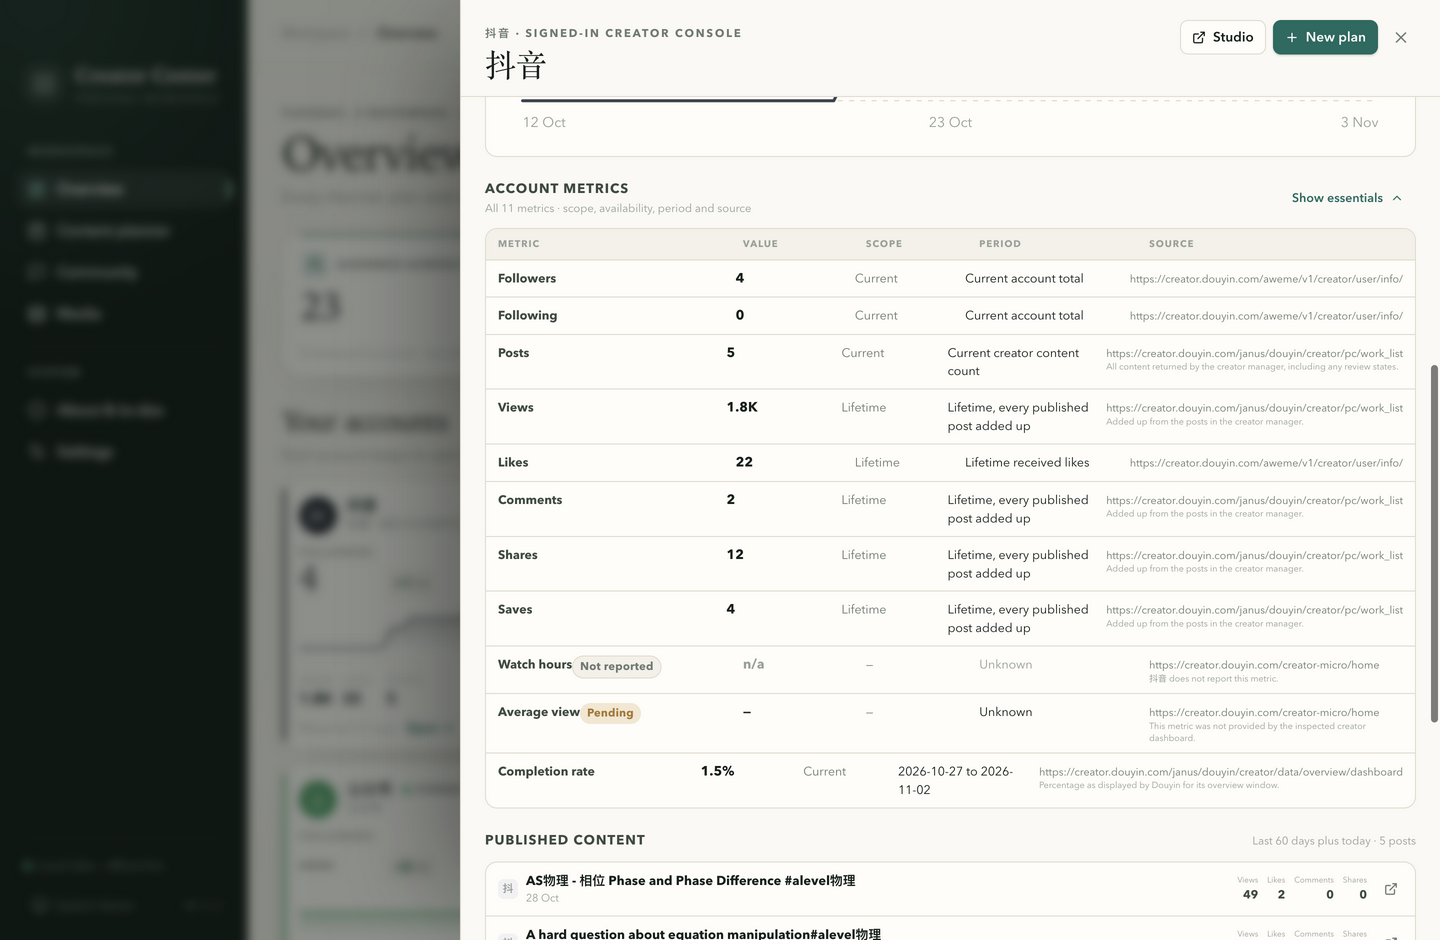
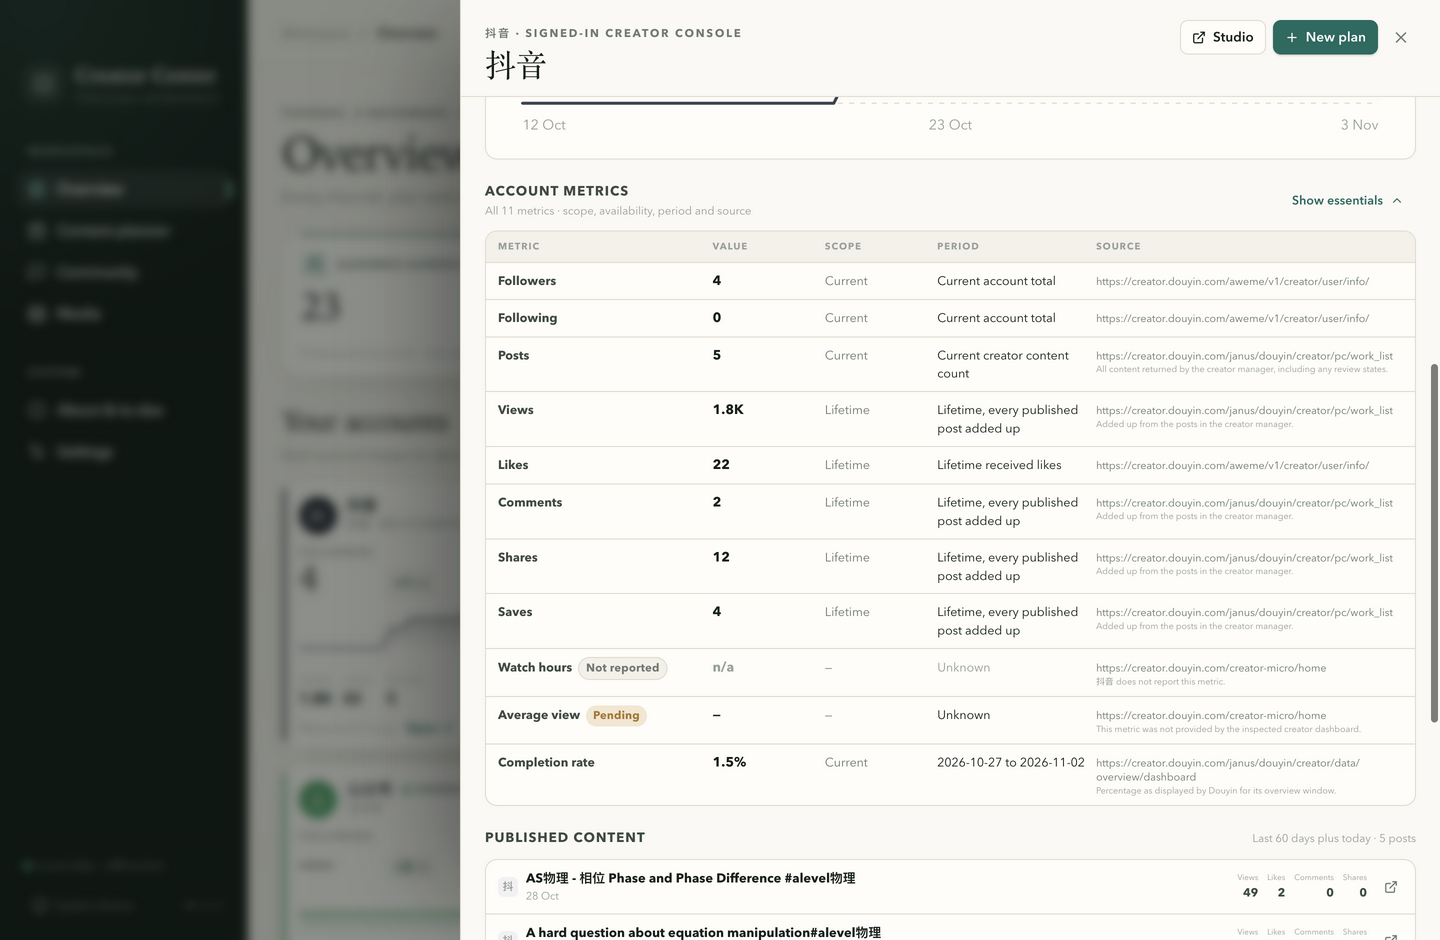
Align the account metric columns and wrap long sources
The header and each metric row were separate grids with fr tracks, so a long source URL
expanded that row's columns and pushed the text and numbers out of line with the header
and other rows. Give every row the same fixed-ratio tracks, keep the first-line baseline,
and let long source URLs wrap after path separators.

Refresh the essential and expanded captures for the final layout.

diff --git a/apps/web/src/components/AccountSheet.tsx b/apps/web/src/components/AccountSheet.tsx
@@ -1,4 +1,4 @@
-import { useEffect, useState } from 'react';
+import { Fragment, useEffect, useState } from 'react';
 import {
   ChevronDown,
   ExternalLink,
@@ -274,7 +274,7 @@ export function AccountSheet({
                       </span>
                       <span>{metric.period || '—'}</span>
                       <span className="metric-source">
-                        {metric.source || '—'}
+                        <SourceValue value={metric.source} />
                         {metric.reason && <small>{metric.reason}</small>}
                       </span>
                     </div>
@@ -385,6 +385,21 @@ export function AccountSheet({
             .finally(() => setBusy(false));
         }}
       />
+    </>
+  );
+}
+
+function SourceValue({ value }: { value: string }) {
+  if (!value) return <>—</>;
+  const parts = value.split(/(?<=[/_])/);
+  return (
+    <>
+      {parts.map((part, index) => (
+        <Fragment key={index}>
+          {part}
+          {index < parts.length - 1 && <wbr />}
+        </Fragment>
+      ))}
     </>
   );
 }

diff --git a/apps/web/src/pages/About.tsx b/apps/web/src/pages/About.tsx
@@ -24,7 +24,7 @@ const CHANGELOG = [
       'Added an opt-in importer for the old SQLite workspace: accounts, metrics, history, posts, plans, tags, merges, to-dos and Community history.',
       'Every import previews the source first, requires an empty workspace, creates a timestamped database backup, and preserves media project metadata for the media increment.',
       'Old browser sessions and YouTube tokens are deliberately not imported; accounts reconnect after migration.',
-      'The per-account metric table is now labelled Account metrics, its rows share a first-line baseline, and the import file actions line up with the database field.',
+      'The per-account metric table is now labelled Account metrics, its rows share a first-line baseline and one column grid, and the import file actions line up with the database field.',
     ],
   },
   {

diff --git a/apps/web/src/styles.css b/apps/web/src/styles.css
@@ -3127,10 +3127,17 @@ button:disabled {
 .metric-table-head,
 .metric-row {
   display: grid;
-  grid-template-columns: 1.25fr 0.6fr 0.55fr 0.85fr 1.35fr;
+  grid-template-columns:
+    minmax(0, 1.1fr) minmax(0, 0.55fr) minmax(0, 0.55fr) minmax(0, 0.8fr)
+    minmax(0, 1.65fr);
   gap: 10px;
   align-items: baseline;
   padding: 8px 12px;
+}
+
+.metric-table-head > span,
+.metric-row > span {
+  min-width: 0;
 }
 
 .metric-table-head {
@@ -3158,6 +3165,9 @@ button:disabled {
 
 .metric-name {
   display: flex;
+  flex-wrap: wrap;
+  align-items: baseline;
+  gap: 2px 6px;
   font-weight: 650;
   color: var(--ink-soft);
 }
@@ -3178,6 +3188,7 @@ button:disabled {
   flex-direction: column;
   font-size: calc(9.5px * var(--font-scale));
   line-height: 1.35;
+  overflow-wrap: anywhere;
   color: var(--muted);
 }
 

diff --git a/docs/screenshots/README.md b/docs/screenshots/README.md
@@ -59,9 +59,10 @@ from the follow-up head at `c2a7bb7`. After is the follow-up commit.
 
 The table is now labelled `Account metrics`, making it clear that the card belongs to the
 per-account drawer. `Choose file` and `Preview` now sit on the same row as the database field
-instead of aligning to the bottom of its hint. Metric rows now share a first-line baseline, so
-a wrapped Period or Source no longer leaves the name, value and scope floating between its two
-lines. [after-followup-metric-alignment-expanded.png](after-followup-metric-alignment-expanded.png)
+instead of aligning to the bottom of its hint. Metric rows now share a first-line baseline and
+one column grid, so headers, text and numbers line up; a wrapped Period or Source no longer
+leaves the name, value and scope floating between its two lines, and long source URLs wrap
+after path separators. [after-followup-metric-alignment-expanded.png](after-followup-metric-alignment-expanded.png)
 shows the expanded 11-metric state, including availability badges.
 
 ## Original first increment
